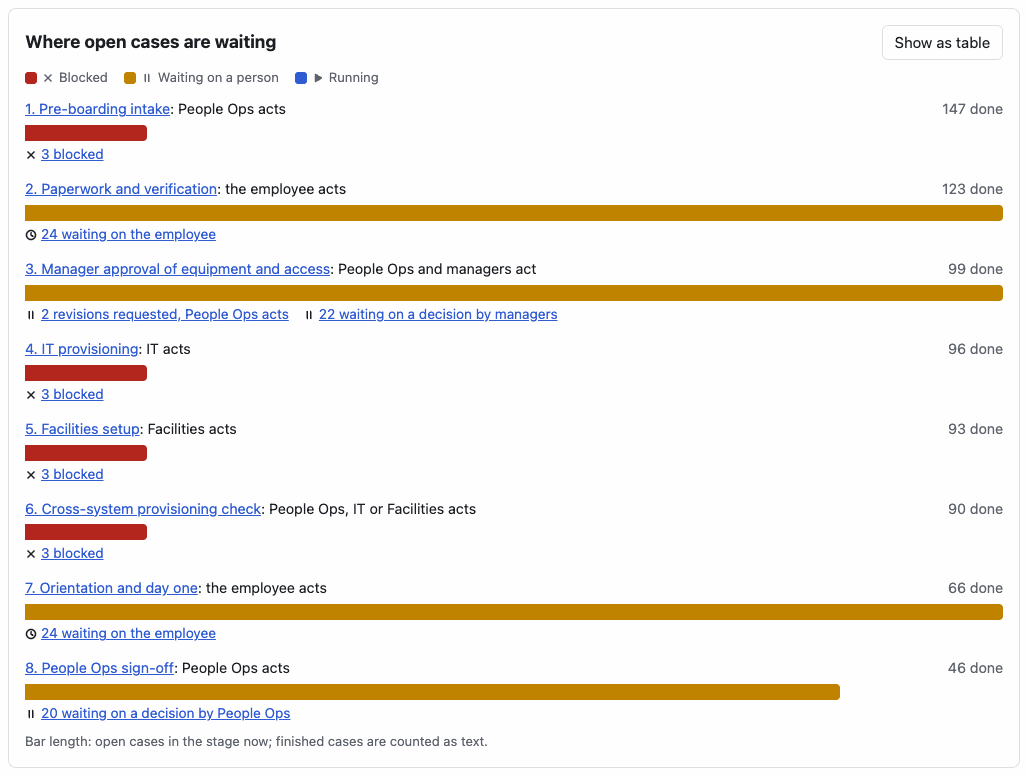
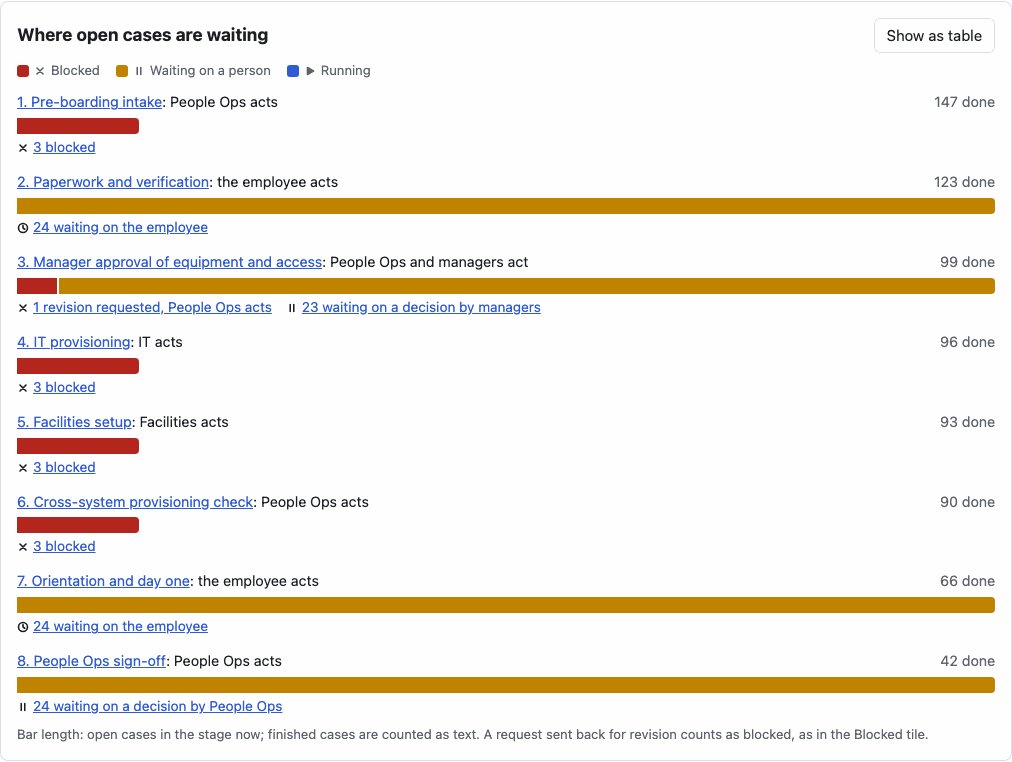
docs: workflows, screenshots and PROGRESS for the visualization review fixes
The workflows doc says who acts on a blocked case as every screen now does,
that a revision counts as blocked, that readiness counts from the viewer's
date with partial first and last weeks, and that the table keeps the flag;
a new section lists the six review fixes. The stage chart and readiness
screenshots (1280 and 375 px, light and dark) are retaken on the demo state
after one request was sent back for revision. PROGRESS records how each
finding was verified and fixed, the eval re-recording and the browser check.

diff --git a/docs/USER-WORKFLOWS.md b/docs/USER-WORKFLOWS.md
@@ -45,7 +45,7 @@ Home: **Approvals** (`/approvals`).
 3. **Approve**, or type a reason and **Reject**. The card confirms ("Approved. IT provisioning starts next.") and stays on screen, showing the decided status and no SLA; focus moves to the confirmation.
 4. If another tab or person already decided, the card says "Already decided. Nothing more to do." and shows no status or SLA, since the outcome is not known there.
 5. The list refreshes when you come back to the window.
-6. **My team** (`/cases`) shows one row per direct report: the name (linked to the case), "starts Mon Nov 23, in 38 days", an 8-step strip of the stages, "Stage 3 of 8: Manager approval of equipment and access" and who acts now. A report waiting on your own decision reads **Waiting on you** with a **Decide** link to that card in Approvals, and comes first; the rest follow by start date. Other rows say "People Ops sign-off", "Revision requested: People Ops revises and resubmits", "Blocked: IT on it", "The employee's checklist", "Running (automated)", "Complete" or "Not started: People Ops starts it". **Starts within 30 days, not ready** narrows the list (kept in the URL); search and the status and stage filters still work. If your pending approvals cannot load, rows say "Waiting on a decision" and a note says why.
+6. **My team** (`/cases`) shows one row per direct report: the name (linked to the case), "starts Mon Nov 23, in 38 days", an 8-step strip of the stages, "Stage 3 of 8: Manager approval of equipment and access" and who acts now. A report waiting on your own decision reads **Waiting on you** with a **Decide** link to that card in Approvals, and comes first; the rest follow by start date. Other rows say "People Ops sign-off", "Revision requested: People Ops revises and resubmits", "Blocked: IT on it" (the department that owns the blocker the stage is blocked by, the one its case page names), "The employee's checklist", "Running (automated)", "Complete" or "Not started: People Ops starts it". **Starts within 30 days, not ready** narrows the list (kept in the URL); search and the status and stage filters still work. If your pending approvals cannot load, rows say "Waiting on a decision" and a note says why.
 7. A case page is read-only for you. Its first sentence says what the case waits on: "Waiting on you to decide the equipment and access request." with **Decide in Approvals**, or after a rejection "Waiting on People Ops to revise and resubmit ...". Opening a case outside your team explains that it is not one of your direct reports.
 
 ## People Ops coordinator
@@ -66,7 +66,7 @@ Home: **Queue** (`/queue`).
 6. Start onboarding from **Cases**: find the employee (search waits until you stop typing; filters stay in the URL; **Load more** shows the next 100) and click **Start onboarding for <name>**. The status filter also offers **Open (started, not finished)**.
 7. **Approvals**: sign-offs are compact rows under a summary line ("24 sign-offs waiting, 24 overdue, 0 start within 2 weeks"), sorted by start date and grouped (Already started, Starts within 2 weeks, In 2 to 6 weeks, Later); the sort can also be most overdue or name, kept in the URL. Each row has the name, "starts Mon Nov 2, in 17 days", the SLA, **Approve**, and **Reject...**, which asks for a reason before **Reject sign-off** is enabled. A decided row stays with its confirmation, which takes focus. Resubmit rejected requests under **Revision requested**.
 8. A case page's first sentence says what the case waits on, who acts, since when, the start date in words and how many stages are done ("Blocked: HR (simulated) could not check the worker record; People Ops is on it. Blocked since Oct 8 (8 days). Starts Monday, December 7 (in 52 days). 5 of 8 stages done."). For a sign-off or a revision it offers **Open in Approvals**. A blocked stage there shows the same rounds readout and Show attempts as the queue.
-9. **Dashboard**: **Where open cases are waiting** draws each stage's open cases (blocked, waiting on a person, running) on one shared scale, says who acts, counts finished cases as text, and links every count to the matching cases; **Show as table** gives the same numbers as a table. **Readiness by start week** shows who starts each week and whether they will be set up by their first day; a week within 21 days with anyone not ready is flagged ("4 not ready"), and the counts open the matching lists (for example the blocked people starting the week of Nov 2). **What changed** lists the latest case events as sentences ("Pre-boarding intake blocked for Nia Iverson: HR (simulated) could not create the worker record"). The tiles link to the matching cases. Blocker counts cover every department, and the table says so: a coordinator's kind rows link to their queue only for kinds that are all their department's (for People Ops, the approval and checklist kinds). If live updates pause, the page says since when and offers **Refresh**, and the charts keep their last frame, dimmed.
+9. **Dashboard**: **Where open cases are waiting** draws each stage's open cases (blocked, waiting on a person, running) on one shared scale, says who acts (for blocked cases, the departments that own their blockers, as their case pages say), counts finished cases as text, and links every count to the matching cases; a request sent back for revision counts as blocked, as in the Blocked tile. **Show as table** gives the same numbers as a table. **Readiness by start week** shows who starts each week, counted from your calendar date, and whether they will be set up by their first day; a week within 21 days with anyone not ready is flagged ("4 not ready"), in the table view too, and the counts open the matching lists (for example the blocked people starting the week of Nov 2). The current week counts only from today ("This week, from today (Fri Oct 16)") and the last only to the window's end ("Week of Mon Jan 4 to Thu Jan 7"), and their links cover the same days. **What changed** lists the latest case events as sentences ("Pre-boarding intake blocked for Nia Iverson: HR (simulated) could not create the worker record"). The tiles link to the matching cases. Blocker counts cover every department, and the table says so: a coordinator's kind rows link to their queue only for kinds that are all their department's (for People Ops, the approval and checklist kinds). If live updates pause, the page says since when and offers **Refresh**, and the charts keep their last frame, dimmed.
 
 ## IT coordinator
 
@@ -129,11 +129,11 @@ A review of the 2026-10-15 round found places where the workflows above were not
 
 A UI and data visualization pass. Each view below answers a question one persona has, and was checked in a browser against the local demo state (`npm run demo:drive`, then `wrangler dev` on the real clock, 2026-10-16). Every chart gives its numbers as text next to the bars, gives each state an icon and a word as well as a color, has a table or text alternative, and fits a 375 px screen in light and dark. The pictures are at 1280 px in the light theme; each has dark and 375 px versions in [screenshots/](screenshots/).
 
-1. **Where open cases are waiting** (admin and coordinators: which stage holds work, and whose move is it?). The funnel drew each stage as a share of all 150 started cases, so finished cases filled most of every row and the 3 blocked cases at each automated stage were slivers; its legend called a revision at a checkpoint "waiting on employee". Each row now draws only the stage's open cases (blocked, waiting on a person, running) against the busiest stage, so 3 blocked cases are an eighth of the 24 at paperwork. It says who acts (the department that owns a blocked stage's systems, the employee, managers, or People Ops for a sign-off or a revision: "2 revisions requested, People Ops acts"), counts finished cases as text, and links every count to the matching cases. **Show as table** swaps in a captioned table.
-   ![Where open cases are waiting, on the demo state after the browser check rejected two requests, retried one outage twice and approved a few sign-offs](screenshots/dashboard-stages-1280-light.png)
+1. **Where open cases are waiting** (admin and coordinators: which stage holds work, and whose move is it?). The funnel drew each stage as a share of all 150 started cases, so finished cases filled most of every row and the 3 blocked cases at each automated stage were slivers; its legend called a revision at a checkpoint "waiting on employee". Each row now draws only the stage's open cases (blocked, waiting on a person, running) against the busiest stage, so 3 blocked cases are an eighth of the 24 at paperwork. It says who acts (for blocked cases, the departments that own their blockers, as their case pages say; the employee; managers; or People Ops for a sign-off or a revision: "1 revision requested, People Ops acts", which counts as blocked, as in the Blocked tile), counts finished cases as text, and links every count to the matching cases. **Show as table** swaps in a captioned table.
+   ![Where open cases are waiting, on the demo state after M01 sent one request back for revision](screenshots/dashboard-stages-1280-light.png)
    Also: [1280 dark](screenshots/dashboard-stages-1280-dark.png), [375 light](screenshots/dashboard-stages-375-light.png), [375 dark](screenshots/dashboard-stages-375-dark.png).
-2. **Readiness by start week** (People Ops, IT, Facilities and the admin: who starts soon and will not be set up by their first day?). No screen grouped people by start date. A new read-only endpoint, `GET /api/dashboard/start-readiness`, counts the people starting each week from today by readiness: ready (complete, or at orientation or later and not blocked), blocked or failed, waiting on a person, in setup, not started. Each week is a bar on one scale with its counts as text; a week within 21 days with anyone not ready gets a "4 not ready" flag. The week's label opens everyone starting that week, and the blocked, not started and failed counts open exactly those people (`/cases?status=blocked&startFrom=2026-11-02&startTo=2026-11-08`, shown as a removable "Start week of Mon Nov 2" filter).
-   ![Readiness by start week](screenshots/dashboard-readiness-1280-light.png)
+2. **Readiness by start week** (People Ops, IT, Facilities and the admin: who starts soon and will not be set up by their first day?). No screen grouped people by start date. A new read-only endpoint, `GET /api/dashboard/start-readiness`, counts the people starting each week from the viewer's calendar date by readiness: ready (complete, or at orientation or later and not blocked), blocked or failed, waiting on a person, in setup, not started. Each week is a bar on one scale with its counts as text; a week within 21 days with anyone not ready gets a "4 not ready" flag. The week's label opens everyone starting that week, and the blocked, not started and failed counts open exactly those people (`/cases?status=blocked&startFrom=2026-11-02&startTo=2026-11-08`, shown as a removable "Start week of Mon Nov 2" filter).
+   ![Readiness by start week, on the same state, on Friday Oct 16](screenshots/dashboard-readiness-1280-light.png)
    Also: [1280 dark](screenshots/dashboard-readiness-1280-dark.png), [375 light](screenshots/dashboard-readiness-375-light.png), [375 dark](screenshots/dashboard-readiness-375-dark.png).
 3. **What changed** (the admin's home page: what just happened?). Recent activity printed action codes, employee ids and actor ids, mostly integration calls and provisioning polls. `GET /api/dashboard/changes` reads the latest case events of ten actions and the card says each one as a sentence with the name linked to the case. It carries no rejection reasons, notes or email addresses, and refreshes when a case changes, at most once a minute.
    ![What changed](screenshots/dashboard-changes-1280-light.png)
@@ -154,3 +154,14 @@ A UI and data visualization pass. Each view below answers a question one persona
    ![People Ops sign-offs](screenshots/approvals-signoffs-1280-light.png)
    Also: [1280 dark](screenshots/approvals-signoffs-1280-dark.png), [375 light](screenshots/approvals-signoffs-375-light.png), [375 dark](screenshots/approvals-signoffs-375-dark.png).
 9. **Found in the browser check and fixed.** Approving a sign-off left its row without the confirmation and dropped focus to the page, because the list refetched without the decided item before the decision's answer was handled; cards and rows now stay on screen from the moment they are decided. On a phone, the readiness bars used about 60% of the card (they kept room for the flag) and the attempt chips stacked into tall pills; the bars now take the full width with the flag beside the week's label, and each chip keeps one line.
+
+## Changed on 2026-10-16: review fixes for the views
+
+A review of the views above found six places where they disagreed with another screen or left something out. What changed, and why:
+
+1. **Who acts on a blocked case is one answer on every screen.** At the cross-system provisioning check the dashboard said "People Ops, IT or Facilities acts" and My team "Blocked: People Ops, IT or Facilities on it", from the three systems the stage calls, while the case page named the one department that owns the open blocker. On the demo all three cases there wait on an HR outage, so an IT or Facilities coordinator told to act found nothing in their queue. The dashboard, My team and the case page now all name the owner of the blocker the stage is blocked by ("6. Cross-system provisioning check: People Ops acts"). Only while a blocked case has no open blocker yet do they name the stage's owners.
+2. **A request sent back for revision is blocked on both charts.** The stage chart drew it as waiting on a person, while the readiness chart beside it, the Blocked tile and the blocked case list count it as blocked. It is now drawn and marked as blocked, with the same words ("1 revision requested, People Ops acts"), so the chart's blocked counts add up to the Blocked tile.
+3. **Readiness counts from your date.** The card counted days, and told "already started" from "this week", on the server's UTC date, while the case page, My team and Approvals count from yours, so for part of every day it was a day off from every other screen (from 17:00 in California). It now counts from your calendar date.
+4. **A partial week links to the days it counts.** The current week counts only from today and the last only up to the window's end, but both linked Monday to Sunday, so a link could list people its number left out. They now say so and link to those days.
+5. **The two table buttons say which chart they swap** ("Show as table: Readiness by start week"), and each card is named by its heading, so a screen reader tells them apart.
+6. **The readiness table keeps the flag.** The table view left out "4 not ready" and still described bar length; the flag is now in the week's row header, and the caption fits each view.

diff --git a/PROGRESS.md b/PROGRESS.md
@@ -452,6 +452,28 @@ A designer proposed charts and views for the app's personas, a judge selected ei
 - Deviations from the plan, all small: the changes endpoint batches one statement per action (above); a revision count names People Ops in its own text (f1cd286) so the row reads as the plan's acceptance says; on a phone, a manager's row is about 115 px tall, but 164 px for a report whose stage name wraps ("Manager approval of equipment and access"), against the plan's "about 120 px"; the closeout round base (rounds counted from the approved sign-off) is covered by unit tests only, since the demo has no closeout blocked after an approval.
 - Not done, and why: nothing from the eight items was deferred. Not verified: anything in production; the closeout readout on a live case (above); forced-colors mode (CSS only, not looked at in a browser).
 
+## UI and data visualization review fixes (2026-10-16)
+
+A review of the UI and data visualization pass listed six findings (one important, five minor). A fixer agent verified each one, fixed all six, one commit each, re-recorded the evals because two responses the harness reads changed shape, and refreshed the two dashboard screenshots. It started at b53bc04. Nothing was deployed, no cloud resource was created or changed, and nothing was pushed. The user-facing summary is under "Changed on 2026-10-16: review fixes for the views" in [docs/USER-WORKFLOWS.md](docs/USER-WORKFLOWS.md).
+
+- Verified before fixing, each in the code the review named: the stage chart and My team took who acts from `stageBlockedOwners` (all three departments at the cross-system check) while the case page used the open blocker's owner; the readiness route read the server's UTC date while the other screens use `localToday()`; `readinessRows` linked every week Monday to Sunday although the window is clamped to today and its end; the stage chart drew a revision in the waiting segment while `readinessClass` and the Blocked tile count its case status, blocked; the dashboard had two buttons named "Show as table" and a region named "stage funnel"; the readiness table had no flag and one caption for both views. None was rejected.
+- Commits:
+  - 54df450 who acts on a blocked case is one answer. `blockingBlocker` in `src/shared/who-acts.ts` is the case page's pick (a data issue first, else the earliest detected, then the lowest id), with `BLOCKING_BLOCKER_ORDER` as its SQL. The hub's stage rollup gains `blockedBy` (each stage's blocked cases by that blocker's owner) and each `/api/employees` row `blockerOwner`; the stage chart names every department with blocked cases of its own ("People Ops and IT act") and falls back to the stage's owners only while a blocked case has no open blocker yet, as the case page does. The review suggested a `GROUP_CONCAT` of every open blocker's owner for My team; one owner per case, picked as the case page picks it, is what keeps the three screens equal when a stage has an outage and a data issue of different departments open. `test/worker/blocked-owner.test.ts` sets up cases where each part of the order decides and checks the SQL and TypeScript picks agree.
+  - d9ef437 a request sent back for revision is blocked on the stage chart (red, the cross, the same words and link), so the stage chart, the readiness chart, the Blocked tile and `/cases?status=blocked` class it alike; both captions say so. The review offered two ways (a separate "revision requested" part on the readiness chart, or wording); this one follows the case status and People Ops' open `approval_rejected` blocker instead, which makes the red counts add up to the Blocked tile as well, which the review also pointed out.
+  - a947104 the readiness card counts from the viewer's calendar date: the client sends `today` (part of the query key), the server accepts it within one day of its UTC date (400 otherwise) and buckets on it.
+  - 844a6de a partial first or last week links to exactly the days it counts: the response carries the window's `end`, each week's range is clamped to max(Monday, today) and min(Sunday, end - 1), and the labels say so ("This week, from today (Fri Oct 16)", "Week of Mon Jan 4 to Thu Jan 7").
+  - adb72ce the table toggles are named "Show as table: <chart title>" and both cards are labelled by their headings.
+  - 6d8093a the readiness table carries the not-ready flag in each flagged week's row header; the caption names the flag in both views and bar length only with the bars.
+- Server code touched (needs `npm run deploy` to reach production): `src/worker/agents/projection.ts` (one more statement in the hub's reconcile batch), `src/worker/routes/employees.ts` (one correlated subquery, evaluated for blocked rows only), `src/worker/routes/dashboard.ts` (`today`, `end`), the schemas in `src/shared/api.ts`, and SPEC's hub state and route table. Read-only: no route, role gate, mutation, policy, idempotency or budget rule changed. Checked over HTTP on the scratch server: `start-readiness` answers 200 for `today` one day either side of the server's date, 400 for two days either side, 403 for M01 with a valid `today`. A worker test checks that a manager's list still holds only their reports.
+- Read cost on the demo D1 (12 open blockers, 1,200 stage rows), `EXPLAIN QUERY PLAN` and `.scanstats`: the hub's new statement is `SEARCH b USING INDEX blockers_status_dept (status=?)` (12 rows) and `SEARCH cs USING INDEX sqlite_autoindex_case_stages_1` (12 lookups), so it reads in proportion to the open blockers, not the tables; the list's new subquery ran for the 8 blocked rows of a 101-row page, reading the open blockers each time (96 rows).
+- A hub state saved by an earlier build has no `blockedBy` until its next reconcile (a subscriber's connect asks for one); the chart then names the stage's owners, as before. A web test covers it.
+- Evals re-recorded: the hub consistency check compares every field of the hub with `/api/dashboard/summary`, and the chaos bots read `/api/employees`, so both measured paths changed. Every mode at 6d8093a with the repo's own commands, one at a time on a clean tree, results moved out between runs and copied back unedited (523ef86, with the re-rendered README block, its notes and a CHANGELOG entry): standard 60/60, CI gate passed; local LLM 60/60, all 20 follow-ups drafted by the model; scale 150/150; keys off 60/60 completed, 50 passed, 28 duplicates; retries off 44/60 completed, 43 passed. The laptop slept during the first two ablation runs (the harness flagged 906 s and 57 s host stalls), so both were run again without a stall, with the same counts. Chaos ran twice: 248/300 (58, 51, 25, 58, 56) with no host stall and load 1.9 to 7.7, but with `wrangler dev`'s proxy dropping connections to the Worker in seeds 2 and 3 (one request took 12.9 s; cause not found), then 288/300 (57, 58, 59, 58, 56) at load 1.5 to 6.5, against 289/300 at 4037512. Both are committed; the README shows the second. From 19:49 UTC on, a `caffeinate -i -s` tied to each eval runner's process held off sleep; each exited with its runner.
+- Browser check: Playwright 1.63 with the cached Chromium, scripts in a scratch directory (not committed), against `npx wrangler dev --port 8781 --inspector-port 9231` in a scratch clone at 6d8093a after `npm run demo:drive -- --port 8781 --inspector-port 9231` there (every case where its plan put it), on the real clock (2026-10-16).
+  - Read-only, on the fresh demo state, 51 of 51 passed. For each of the 12 blocked cases, the list's `blockerOwner` equaled the owner the case page picks from `/api/cases/:id`, and the hub's `blockedBy` per stage equaled those owners counted; the dashboard read "6. Cross-system provisioning check: People Ops acts" (and People Ops, IT, Facilities for intake, IT provisioning and Facilities setup); the IT queue had no blocker at that stage; M02's My team read "Blocked: People Ops on it" for E046 and E142 and "Blocked: IT on it" for E108, and each case page named the same department. The first readiness row read "This week, from today (Fri Oct 16): no start dates", the last "Week of Mon Jan 4 to Thu Jan 7, in 80 days, 15 people", linking `startFrom=2027-01-04&startTo=2027-01-07`, a list of 15. In the same minute, with `timezoneId` America/Los_Angeles the request sent `today=2026-10-16` and the dashboard and E090's case page both said 17 days; with Pacific/Kiritimati `today=2026-10-17` and both said 16 days. The two toggles were named "Show as table: Where open cases are waiting" and "Show as table: Readiness by start week", Tab reached both, and the regions took the headings' names. In the readiness table the Nov 2 row header read "... 15 people 4 not ready" (the one week the chart flags), and the caption lost the bar length sentence. `/dashboard` measured 375 px wide at 375 px for the admin, People Ops and IT, light and dark, with the bars and with both tables.
+  - Changing state, 6 of 6 passed: M01 rejected E140's request; after the workflow set `revision_requested`, the manager approval row read "1 revision requested, People Ops acts" with a red segment and the cross before the 23 waiting on managers, the stage chart's blocked counts added up to 13, the Blocked tile's number, and the week of Nov 23 counted 2 blocked, the length of its blocked list (E140 and E150).
+- Screenshots: the stage chart and readiness cards at 1280 and 375 px, light and dark (8 PNGs in `docs/screenshots`, 128-color palettes, 267 KB), taken after the rejection above. The other 27 screenshots do not show anything this round changed (M01's My team has no blocked report) and were left as they were.
+- Not done, and why: My team keeps a revision amber with the pause ("Revision requested: People Ops revises and resubmits"); the review was about the dashboard's two charts, and the manager's row already says who acts in words. The retry route's authorization still takes the owner of the newest open blocker at the stage (`ORDER BY detected_at DESC`), which can differ from the display pick when two blockers of different departments are open and neither is a data issue; it was left alone, since changing who may retry is a server rule this round does not touch. Not verified: anything in production.
+
 ## Known noise and caveats
 
 - Intermittent test, cause fixed in 9e24593: once locally (2026-10-08 about 20:46 PDT, under heavy load, message not captured) and once in GitHub Actions (run 37877471758, Node 24, on the published copy of 5e2635b), `test/worker/workflow-approvals.test.ts > does not start provisioning before the manager decides` failed. The CI log captured the message: `expected NaN to be greater than or equal to 1791460804422` at line 143, which is the diagnosed race: the test read `MIN(created_at)` of E104's IT calls as soon as `it_provisioning` was `active`, `IntegrationClient` writes a call row only when the call returns, so the query can return NULL in between and `Date.parse(null)` is NaN. The test now waits for the first IT row and keeps the same ordering assertion, so a real ordering bug would still fail it.
